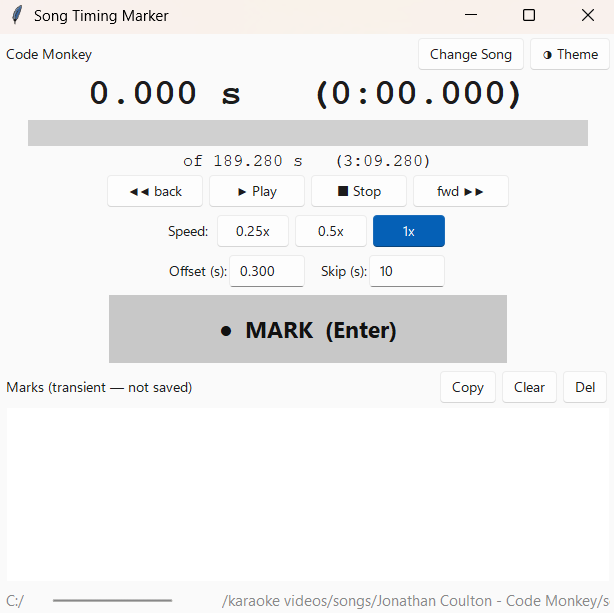
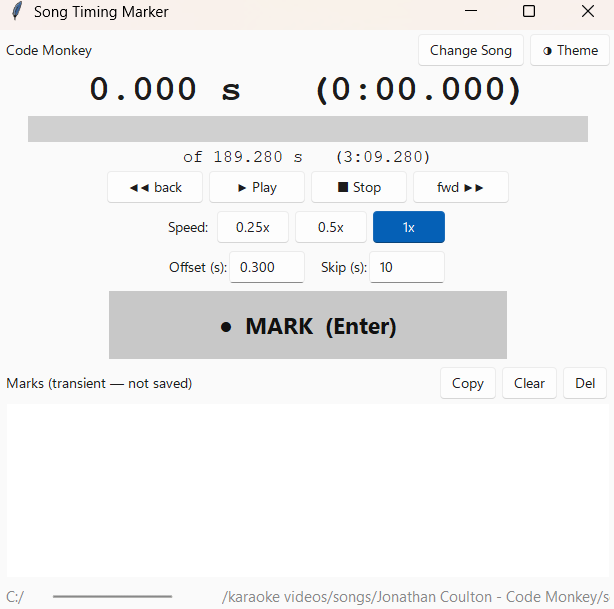
Docs edits, cropped images to be the same size

diff --git a/docs/README.md b/docs/README.md
@@ -1,6 +1,6 @@
 # GUI and Design Notes
 
-Each part of the interface, and the design choices behind them, are described in this document. See the [main README](../README.md#song-timing-marker) for installation and a feature summary.
+Each part of the interface, and the design choices behind them, are described in this document. See the [main README](../README.md#song-timing-marker) for installation instructions and a feature summary.
 
 **Contents**
 
@@ -15,25 +15,27 @@ Each part of the interface, and the design choices behind them, are described in
 
 ## Getting started
 
-On launch the tool opens a file dialog to choose a song. The dialog can be skipped by starting the app with a path already in hand: pass one on the command line (`python main.py "path/to/song.flac"`), drop a file onto `run.bat`, or open an audio file with the tool if it is set as the handler. Once a song loads, the main window appears with the controls described next.
+On launch the tool opens a file dialog to choose a song. The dialog can be skipped by starting the app with a path already in hand: pass one on the command line (`python main.py "path/to/song.flac"`), drop a file onto `run.bat`, or open an audio file with the tool if it is set as the handler. Once a song loads, the main window appears.
 
 ## Interface
 
-<p align="center">
+<p align="center"><figure>
+  <figcaption>Home screen after selecting an audio file, dark and light themes shown</figcaption>
   <img src="images/home_dark.png" alt="Main window, dark theme" width="49%">
   <img src="images/home_light.png" alt="Main window, light theme" width="49%">
-</p>
+</figure></p>
 
-The window is a single column of controls, top to bottom:
+The window is a single column of controls. Buttons can be clicked or the [keyboard shortcuts](../README.md#keyboard-shortcuts) can be used. From top to bottom:
 
 - **Song label and Change Song:**
-  - The header shows `Artist - Title` read from the file's metadata, falling back to the filename.
-  - The Change Song button swaps the audio without restarting. It clears the current marks only on a successful load, so cancelling leaves everything untouched.
+  - The header shows `Artist - Title` read from the file's metadata, falling back to the filename if tags cannot be read.
+  - The Change Song button swaps the audio file. It clears the current marks only on a successful load.
 - **Theme toggle:**
   - A light/dark toggle.
 - **Position readout:**
   - A large three-decimal seconds value, with an `m:ss.mmm` companion.
   - It reflects the audible position (see [Marks, Offset, and Latency](#marks-offset-and-latency)), so the number matches what is being heard.
+  - Total file duration is displayed below the seek bar.
 - **Seek bar:**
   - Click or drag to jump.
   - Hovering shows an `m:ss` tooltip for coarse navigation.
@@ -45,13 +47,14 @@ The window is a single column of controls, top to bottom:
   - Slow speeds are pitch-preserving (see [Slow Playback](#slow-playback)).
 - **Offset and Skip fields:**
   - Offset is the reaction-delay bias applied to every mark.
-  - Skip is the step size for the skip buttons and the arrow keys.
+  - Skip is the step size for back and forward skip buttons.
 - **MARK button:**
-  - Clicking it records a timestamp, the same as pressing Enter.
-  - It flashes with each mark to indicate a recording.
+  - Records timestamp at current audio position, populates Marks section below.
+  - Flashes with each press to indicate a recording.
 - **Marks list:**
   - The captured timestamps, newest at the bottom. Non-editable by design.
   - A Copy button copies them all (one per line); selecting rows and pressing Ctrl+C copies just the selection.
+  - All timestamps can be removed with the Clear button, and selected timestamps can be removed with the Del button.
 - **Path footer:**
   - The full path of the loaded file, along the bottom.
 
@@ -70,28 +73,29 @@ The math lives in [`marks.py`](../marks.py) and is pure and unit-tested.
 
 Two deliberate ideas sit behind that simple formula:
 
-The offset is a reaction-delay knob. People press the key a fraction of a second after they hear the word, and for karaoke a mark landing slightly early is the desired feel, so the offset (default 0.30 s, adjustable live) biases every mark early to absorb both. It is intentionally not precise: a conservative value is fine, even preferred.
+The offset is a reaction-delay knob. People press the key a fraction of a second after they hear the word, and for karaoke a mark landing slightly early is the desired feel, so the offset (adjustable, defaults to 0.3 s) biases every mark early to absorb both. It is intentionally not precise: a conservative value is fine, even preferred.
 
 Marks also reflect what you hear rather than the buffer. The audio you hear lags the playback cursor by the output stream's latency, because the cursor advances as samples are handed to the device, a fraction of a second before they reach the speakers. Left uncorrected, a small offset could make marks land after the word. The engine subtracts the stream's actual output latency when the cursor came from playback (not from a manual seek), so a mark lands on the word that was heard and the offset stays a pure human-reaction knob, independent of the audio device. The readout and playhead show this same audible position, so the visible gap between the readout and a mark is exactly the offset.
 
 ## Slow Playback
 
 Slowing audio without dropping the pitch requires time-stretching, not just
-playing samples at a lower rate. The tool uses [`audiotsm`](https://pypi.org/project/audiotsm/)
+playing samples at a lower rate. The tool uses 
+[`audiotsm`](https://audiotsm.readthedocs.io/en/latest/) 
 (a pure-Python WSOLA implementation) for this.
 
 - **Pre-computed in the background:**
   - When a slow speed is selected, the stretch is computed on a background thread so the interface never freezes.
-  - While it runs, a small progress bar fills next to the speed buttons and Play is disabled. When it finishes, playback resumes at the new speed from the same position.
+  - While it runs, a small progress bar fills next to the speed buttons and Play is disabled. 
+  - When it finishes, playback resumes at the new speed from the same position.
 - **Cached per ratio:**
-  - A song whose file is 100 MB or smaller keeps both slow buffers, so toggling between `0.25x` and `0.5x` is instant after the first computation of each.
+  - A song whose file is 100 MB or smaller keeps slowed buffers cached, so toggling between `0.25x` and `0.5x` is instant after the first computation of each.
   - Larger files keep only the active ratio to bound memory. Changing songs releases the cache, as does closing the window.
 - **Marks stay in true song time:**
   - The stretched buffer is an internal playback detail: the cursor and position stay in the original song's time base, so a mark taken at `0.5x` records the real timestamp, not a scaled one.
   - The mapping between the two time bases is a small, unit-tested function in [`player.py`](../player.py).
 
-The older pitch-dropping approach (playing at a scaled samplerate) is kept in the
-code behind a flag, so it can be restored without a rewrite.
+The older pitch-dropping approach (playing at a scaled samplerate) is kept in the code behind a flag, so it can be restored without a rewrite. The code can then be adjusted and the tool used without **audiostm**, which is no longer maintained.
 
 ## Design choices
 
@@ -127,16 +131,17 @@ their correctness is about real audio and real rendering.
 *Noted areas of possible improvement.*
 
 - **Cross-platform testing:**
-  - Draft macOS and Linux launchers are provided [below](#macos-and-linux-launchers), and the code targets portability, but only Windows is built and tested here. Real testing on macOS and Linux hardware is left to users and contributors.
+  - Draft macOS and Linux launchers are provided [below](#macos-and-linux-launchers), and the code targets portability, but only Windows is built and tested here. 
+  - Real testing on macOS and Linux hardware is left to users and contributors.
 - **Higher-quality or real-time time-stretch:**
-  - An external library such as rubberband, or a streaming stretch, if `audiotsm`'s quality or its first-use compute latency ever becomes limiting.
+  - An external library such as rubberband, or a streaming stretch, could be used if `audiotsm`'s quality or its first-use compute latency ever becomes limiting.
 - **Speed-aware offset:**
-  - Automatically scaling the reaction-delay offset to the current playback speed, since perception differs at `0.5x` and `0.25x`. Manual adjustment is enough for now.
+  - Automatically scaling the reaction-delay offset to the current playback speed, since perception differs at `0.5x` and `0.25x`.
 
 Out of scope, by choice:
 
 - **Awareness of the karaoke timing-file format:**
-  - The tool deliberately knows nothing about words or the destination file. It plays audio and emits numbers; the marks are read off the screen and typed across by hand.
+  - The tool deliberately knows nothing about words or destination files/formats. It plays audio and emits numbers; the marks are read and copied by hand.
   - Reading a word list or writing marks back to a file would couple it to one external format, which the current transient-marks approach avoids.
 
 ## macOS and Linux launchers
@@ -146,7 +151,7 @@ built or tested here, but the following drafts are a reasonable starting point.
 Each assumes the virtual environment lives in `.venv` beside the script and
 forwards a single dropped or opened file path (quoted) to the app.
 
-macOS: save as `run.command`, then make it executable once with
+**macOS:** save as `run.command`, then make it executable once with
 `chmod +x run.command`. Double-clicking launches it through Terminal.
 
 ```bash
@@ -156,8 +161,7 @@ source .venv/bin/activate
 exec python main.py "$@"
 ```
 
-Linux: save as `run.sh`, then `chmod +x run.sh`. Whether a double-click runs it
-depends on the desktop environment; running it from a terminal always works.
+**Linux:** save as `run.sh`, then `chmod +x run.sh`. Whether a double-click runs it depends on the desktop environment; running it from a terminal always works.
 Tkinter may need a system package first, e.g. `sudo apt install python3-tk` on
 Debian/Ubuntu.
 

diff --git a/README.md b/README.md
@@ -9,7 +9,10 @@ A small desktop tool for capturing millisecond-accurate timestamps from an audio
 ![Audio](https://img.shields.io/badge/Audio-sounddevice%20%2B%20soundfile-blue)
 ![License](https://img.shields.io/badge/License-MIT-green)
 
-![Main window](docs/images/home_dark.png)
+<p align="center">
+  <img src="docs/images/home_dark.png" alt="Main window" width="49%">
+  <img src="docs/images/playing_dark.png" alt="Capturing timestamps" width="49%">
+</p>
 
 **[Documentation](docs/README.md#gui-and-design-notes)**
 
@@ -20,15 +23,16 @@ A small desktop tool for capturing millisecond-accurate timestamps from an audio
 ## Quickstart
 
 Requires Python 3.12 or newer (developed on 3.14) and a working audio output 
-device. See [requirements](requirements.txt) for a list of Python packages used.
-
-```
+device. Dependencies listed [below](#dependencies) and in [requirements.txt](requirements.txt).
+```powershell
 git clone https://github.com/NBPub/song_timing_marker
 cd song_timing_marker
 python -m venv .venv
-.venv\Scripts\activate            REM Windows;  source .venv/bin/activate on macOS/Linux
+
+.venv\Scripts\activate           # Windows; for macOS/Linux: source .venv/bin/activate 
+
 pip install -r requirements.txt
-python main.py                    REM or:  python main.py "path\to\song.flac"
+python main.py                   # OR python main.py "path\to\song.flac"
 ```
 
 Supported playback for various audio formats may depend on the bundled
@@ -36,7 +40,7 @@ Supported playback for various audio formats may depend on the bundled
 
 ### Launching
 
-As shown in the installation example above, the tool can be launched by navigating to its directory, activating the virtual environment, and launching with `python main.py`. For convenience [run.bat](run.bat) can be used to double-click launching.
+As shown in the installation example above, the tool can be launched by navigating to its directory, activating the virtual environment, and launching with `python main.py`. For convenience [run.bat](run.bat) can be used for  double-click launching.
 
 - `run.bat` also works as an "Open with" handler or drop target: a single 
   file path dropped onto it is forwarded to the app.
@@ -76,10 +80,9 @@ with no external application to install.
 
 - Transport controls (play, pause, stop, skip) and a click-and-drag seek bar
   with a hover tooltip.
-- A large position readout to three decimals, reflecting the audible position.
+- Large current time position readout to three decimals.
 - Mark capture on keypress: records `position - offset`, rounded to three
-  decimals, into a transient on-screen list. Marks are never written to disk;
-  but can copied out.
+  decimals, into a transient on-screen list. Timestamp list is selectable and copyable.
 - A live, adjustable reaction-delay offset.
 - Slow playback options at 0.25x and 0.5x that preserves pitch, computed in the
   background so the interface never freezes.
@@ -90,12 +93,12 @@ See for more details: [GUI and Design Notes](docs/README.md#gui-and-design-notes
 
 ## Motivation
 
-Karaoke videos need per-word timing data: when each lyric should appear or fill.
-Producing that by hand means finding the exact moment a word is sung, and 
-normal media players typically show whole seconds, and finer resolution must be guessed.
+[Karaoke Videos](https://github.com/NBPub/karaoke_vid_gen/tree/main#karaoke-video-generator) need per-word timing data: when each lyric should appear or fill.
+Adjusting timings by hand means finding the exact moment a word is sung, and 
+normal media players typically show whole seconds, therefore requiring finer resolution to be guessed.
 
 This tool was built to make that step easier. It plays a song, shows the
-position to millisecond precision, and turns a keypress into a timestamp, which is biased slightly early to account for reaction speed and to match the karaoke feel.
+position to millisecond precision, and turns a keypress into a timestamp, which is biased slightly early to account for reaction speed and to match the karaoke feel. These timestamps can be copied into [files](https://github.com/NBPub/karaoke_vid_gen/blob/main/docs/Features.md#timingjson) that control how lyrics in karaoke videos are filled.
 
 ## AI Disclaimer
 
